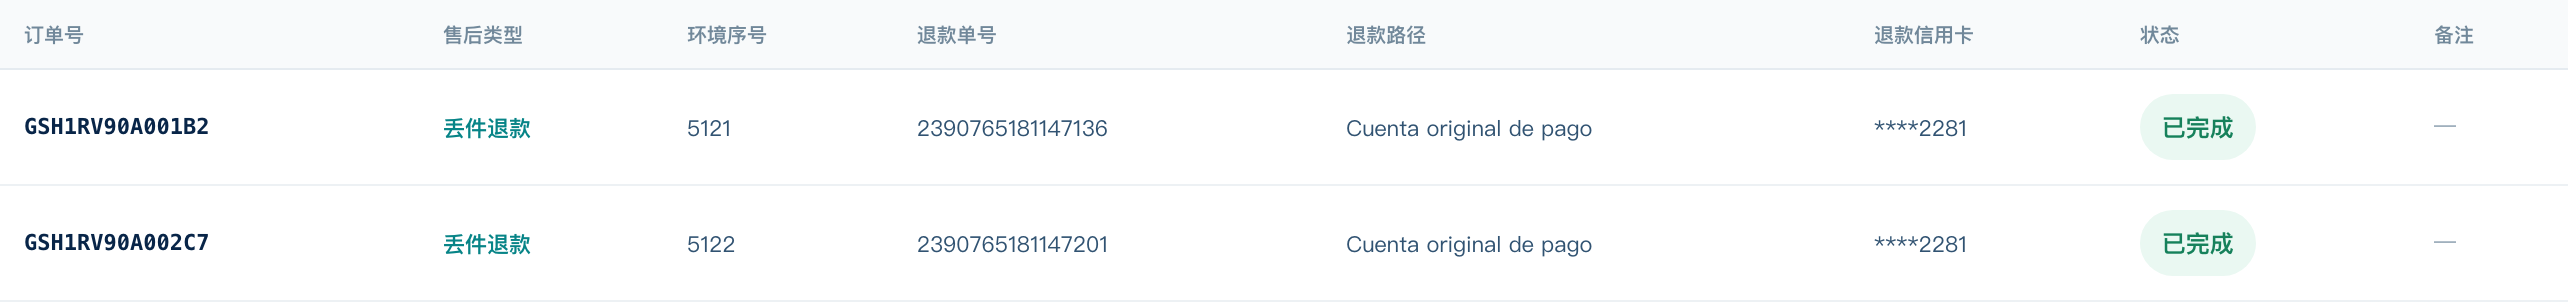
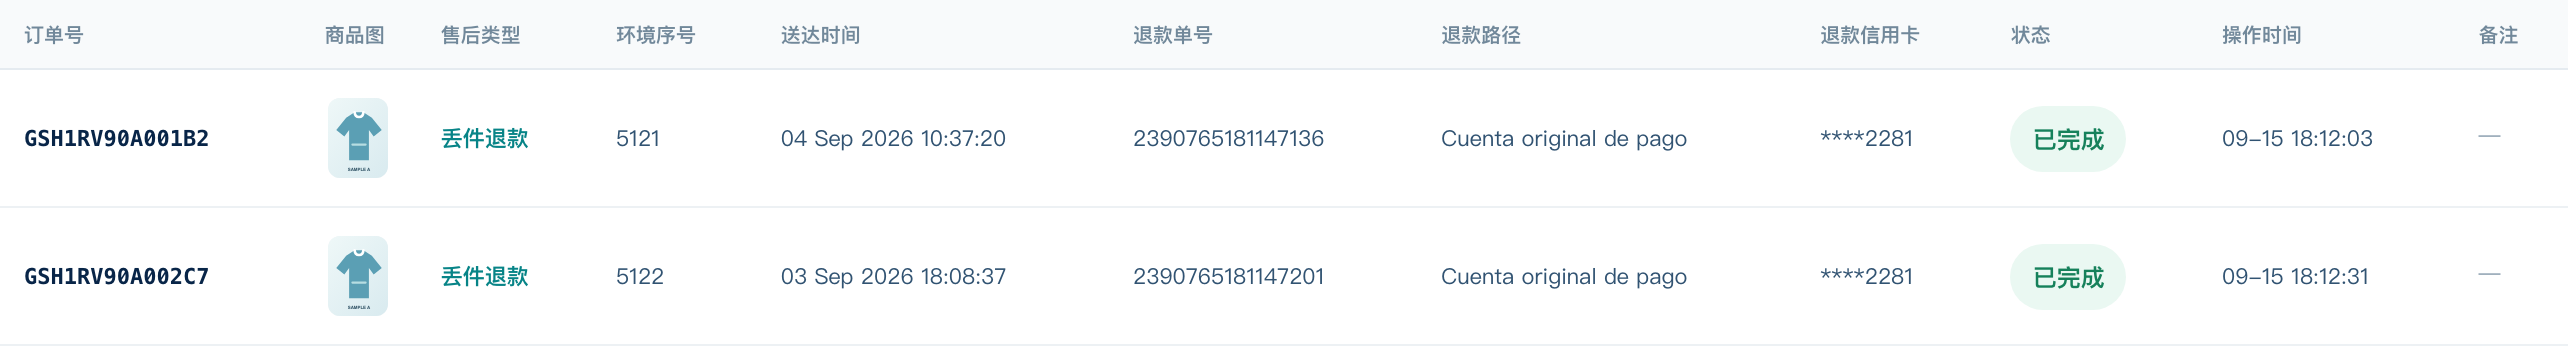
docs: 商品图列移到订单号之后；提交结果补送达时间、提交时间改名操作时间
按 Jeff 反馈调整三张表的列序与字段：
- ② 可申请清单：商品图从首列移到「订单号」右边（列序 环境序号|买家号环境|订单号|商品图|…）。
  移动时表头一度漏掉该列导致错位，已修正并加了「表头列数＝行单元格数」的对齐校验。
- ③ 提交结果：商品图同样移到订单号之后；新增「送达时间」；原「提交时间」改名为「操作时间」
  （同一语义，避免出现两个同义列）。
- ④ 退款跟踪：商品图从首列移到「订单号」右边。

送达时间不新增接口：扫描阶段已拿到，前端按订单号与扫描清单关联即可；
真机跨会话时把送达时间随提交条目一起落库。

实测三张表 headers 与行单元格数完全对齐（11/11、11/11、10/10），控制台零报错。

diff --git a/docs/prototypes/20260915-procurement-after-sale-v2-multitype.html b/docs/prototypes/20260915-procurement-after-sale-v2-multitype.html
@@ -15814,9 +15814,11 @@ initializeAuth();
       ],
       claimRows: [
         { order: 'GSH1RV90A001B2', serial: '5121', status: 'ok',
+          actedAt: '09-15 18:12:03',
           extra: { 退款单号: '2390765181147136', 退款路径: 'Cuenta original de pago',
                    退款信用卡: '****2281' } },
         { order: 'GSH1RV90A002C7', serial: '5122', status: 'ok',
+          actedAt: '09-15 18:12:31',
           extra: { 退款单号: '2390765181147201', 退款路径: 'Cuenta original de pago',
                    退款信用卡: '****2281' } },
       ],
@@ -15984,7 +15986,8 @@ initializeAuth();
     const t = typeOf(current);
     const head = document.querySelector('#asScanTable thead tr');
     head.innerHTML = '<th style="width:34px"><input type="checkbox" style="accent-color:var(--rhino-600)"></th>'
-      + '<th style="width:46px">商品图</th><th>环境序号</th><th>买家号环境</th><th>订单号</th><th>售后类型</th>'
+      + '<th>环境序号</th><th>买家号环境</th><th>订单号</th>'
+      + '<th style="width:46px">商品图</th><th>售后类型</th>'
       + t.scanCols.map(c => `<th${/金额/.test(c) ? ' class="num"' : ''}>${esc(c)}</th>`).join('')
       + '<th>状态</th>';
     const rows = t.rows;
@@ -15996,10 +15999,10 @@ initializeAuth();
         ? `<span class="pill ok">${esc(r.status)}</span>`
         : `<span class="pill ${r.status === '不可申请' || r.status === '不可取消' ? 'warn' : 'warn'}">${esc(r.status)}</span>`;
       return `<tr${checked ? ' class="as-picked"' : ''}><td>${box}</td>`
-        + thumbCell(t.thumb)
         + `<td class="sub-text">${esc(r.serial)}</td>`
         + `<td style="font-weight:700; color:var(--navy-950)">${esc(r.store)}</td>`
         + `<td class="as-order">${esc(r.order)}</td>`
+        + thumbCell(t.thumb)
         + `<td style="font-weight:700; color:#078487; white-space:nowrap">${esc(t.label)}</td>`
         + t.scanCols.map(c => `<td>${esc(r.extra[c] || '—')}</td>`).join('')
         + `<td>${pill}</td></tr>`;
@@ -16016,14 +16019,24 @@ initializeAuth();
   function renderClaim() {
     const t = typeOf(current);
     const head = document.querySelector('#asClaimTable thead tr');
-    head.innerHTML = '<th style="width:46px">商品图</th><th>订单号</th><th>售后类型</th><th>环境序号</th>'
-      + t.claimCols.map(c => `<th>${esc(c)}</th>`).join('') + '<th>状态</th><th>备注</th>';
-    document.getElementById('asClaimRows').innerHTML = t.claimRows.map(r =>
-      `<tr>${thumbCell(t.thumb)}<td class="as-order">${esc(r.order)}</td>`
+    head.innerHTML = '<th>订单号</th><th style="width:46px">商品图</th><th>售后类型</th><th>环境序号</th>'
+      + '<th>送达时间</th>'
+      + t.claimCols.map(c => `<th>${esc(c)}</th>`).join('')
+      + '<th>状态</th><th>操作时间</th><th>备注</th>';
+    document.getElementById('asClaimRows').innerHTML = t.claimRows.map(r => {
+      // 送达时间取自已扫描的清单（同一批数据，前端按订单号关联，不再要一次接口）
+      const scanned = t.rows.find(x => x.order === r.order) || {};
+      const delivered = (scanned.extra || {})['送达时间'] || '—';
+      return `<tr><td class="as-order">${esc(r.order)}</td>`
+      + thumbCell(t.thumb)
       + `<td style="font-weight:700; color:#078487">${esc(t.label)}</td>`
       + `<td class="sub-text">${esc(r.serial)}</td>`
+      + `<td class="sub-text">${esc(delivered)}</td>`
       + t.claimCols.map(c => `<td>${esc(r.extra[c] || '—')}</td>`).join('')
-      + '<td><span class="pill ok">已完成</span></td><td class="hint">—</td></tr>').join('');
+      + `<td><span class="pill ok">已完成</span></td>`
+      + `<td class="sub-text">${esc(r.actedAt || '—')}</td>`
+      + '<td class="hint">—</td></tr>';
+    }).join('');
   }
 
   function syncFooter() {
@@ -16095,9 +16108,9 @@ initializeAuth();
       const p = TRACK_PHASES[r.phase] || ['warn', r.phase];
       const bad = r.phase === 'rejected' || r.phase === 'overdue';
       return `<tr${bad ? ' class="tr-bad"' : (r.phase === 'refunded' ? '' : ' class="tr-run"')}>`
-        + thumbCell(typeOf('refund').thumb)
         + `<td class="as-order" style="font-size:12px">${esc(r.billId)}</td>`
         + `<td class="as-order">${esc(r.order)}</td>`
+        + thumbCell(typeOf('refund').thumb)
         + `<td class="sub-text">${esc(r.serial)}</td>`
         + `<td class="sub-text">${esc(r.card)}</td>`
         + `<td><span class="pill ${p[0]}">${esc(p[1])}</span></td>`
@@ -16139,7 +16152,7 @@ initializeAuth();
       <div style="padding: 0 19px;">
         <div class="table-scroll scroll-20">
           <table><thead><tr>
-            <th style="width:46px">商品图</th><th>退款单号</th><th>订单号</th><th>环境序号</th><th>退款信用卡</th>
+            <th>退款单号</th><th>订单号</th><th style="width:46px">商品图</th><th>环境序号</th><th>退款信用卡</th>
             <th>阶段</th><th>剩余倒计时</th><th>退款结果</th><th>最近检查</th><th>处置</th>
           </tr></thead><tbody id="asTrackRows"></tbody></table>
         </div>

diff --git a/docs/prototypes/build_procurement_after_sale_multitype_prototype.py b/docs/prototypes/build_procurement_after_sale_multitype_prototype.py
@@ -70,9 +70,11 @@ DESIGN_PATCH = r'''
       ],
       claimRows: [
         { order: 'GSH1RV90A001B2', serial: '5121', status: 'ok',
+          actedAt: '09-15 18:12:03',
           extra: { 退款单号: '2390765181147136', 退款路径: 'Cuenta original de pago',
                    退款信用卡: '****2281' } },
         { order: 'GSH1RV90A002C7', serial: '5122', status: 'ok',
+          actedAt: '09-15 18:12:31',
           extra: { 退款单号: '2390765181147201', 退款路径: 'Cuenta original de pago',
                    退款信用卡: '****2281' } },
       ],
@@ -240,7 +242,8 @@ DESIGN_PATCH = r'''
     const t = typeOf(current);
     const head = document.querySelector('#asScanTable thead tr');
     head.innerHTML = '<th style="width:34px"><input type="checkbox" style="accent-color:var(--rhino-600)"></th>'
-      + '<th style="width:46px">商品图</th><th>环境序号</th><th>买家号环境</th><th>订单号</th><th>售后类型</th>'
+      + '<th>环境序号</th><th>买家号环境</th><th>订单号</th>'
+      + '<th style="width:46px">商品图</th><th>售后类型</th>'
       + t.scanCols.map(c => `<th${/金额/.test(c) ? ' class="num"' : ''}>${esc(c)}</th>`).join('')
       + '<th>状态</th>';
     const rows = t.rows;
@@ -252,10 +255,10 @@ DESIGN_PATCH = r'''
         ? `<span class="pill ok">${esc(r.status)}</span>`
         : `<span class="pill ${r.status === '不可申请' || r.status === '不可取消' ? 'warn' : 'warn'}">${esc(r.status)}</span>`;
       return `<tr${checked ? ' class="as-picked"' : ''}><td>${box}</td>`
-        + thumbCell(t.thumb)
         + `<td class="sub-text">${esc(r.serial)}</td>`
         + `<td style="font-weight:700; color:var(--navy-950)">${esc(r.store)}</td>`
         + `<td class="as-order">${esc(r.order)}</td>`
+        + thumbCell(t.thumb)
         + `<td style="font-weight:700; color:#078487; white-space:nowrap">${esc(t.label)}</td>`
         + t.scanCols.map(c => `<td>${esc(r.extra[c] || '—')}</td>`).join('')
         + `<td>${pill}</td></tr>`;
@@ -272,14 +275,24 @@ DESIGN_PATCH = r'''
   function renderClaim() {
     const t = typeOf(current);
     const head = document.querySelector('#asClaimTable thead tr');
-    head.innerHTML = '<th style="width:46px">商品图</th><th>订单号</th><th>售后类型</th><th>环境序号</th>'
-      + t.claimCols.map(c => `<th>${esc(c)}</th>`).join('') + '<th>状态</th><th>备注</th>';
-    document.getElementById('asClaimRows').innerHTML = t.claimRows.map(r =>
-      `<tr>${thumbCell(t.thumb)}<td class="as-order">${esc(r.order)}</td>`
+    head.innerHTML = '<th>订单号</th><th style="width:46px">商品图</th><th>售后类型</th><th>环境序号</th>'
+      + '<th>送达时间</th>'
+      + t.claimCols.map(c => `<th>${esc(c)}</th>`).join('')
+      + '<th>状态</th><th>操作时间</th><th>备注</th>';
+    document.getElementById('asClaimRows').innerHTML = t.claimRows.map(r => {
+      // 送达时间取自已扫描的清单（同一批数据，前端按订单号关联，不再要一次接口）
+      const scanned = t.rows.find(x => x.order === r.order) || {};
+      const delivered = (scanned.extra || {})['送达时间'] || '—';
+      return `<tr><td class="as-order">${esc(r.order)}</td>`
+      + thumbCell(t.thumb)
       + `<td style="font-weight:700; color:#078487">${esc(t.label)}</td>`
       + `<td class="sub-text">${esc(r.serial)}</td>`
+      + `<td class="sub-text">${esc(delivered)}</td>`
       + t.claimCols.map(c => `<td>${esc(r.extra[c] || '—')}</td>`).join('')
-      + '<td><span class="pill ok">已完成</span></td><td class="hint">—</td></tr>').join('');
+      + `<td><span class="pill ok">已完成</span></td>`
+      + `<td class="sub-text">${esc(r.actedAt || '—')}</td>`
+      + '<td class="hint">—</td></tr>';
+    }).join('');
   }
 
   function syncFooter() {
@@ -351,9 +364,9 @@ DESIGN_PATCH = r'''
       const p = TRACK_PHASES[r.phase] || ['warn', r.phase];
       const bad = r.phase === 'rejected' || r.phase === 'overdue';
       return `<tr${bad ? ' class="tr-bad"' : (r.phase === 'refunded' ? '' : ' class="tr-run"')}>`
-        + thumbCell(typeOf('refund').thumb)
         + `<td class="as-order" style="font-size:12px">${esc(r.billId)}</td>`
         + `<td class="as-order">${esc(r.order)}</td>`
+        + thumbCell(typeOf('refund').thumb)
         + `<td class="sub-text">${esc(r.serial)}</td>`
         + `<td class="sub-text">${esc(r.card)}</td>`
         + `<td><span class="pill ${p[0]}">${esc(p[1])}</span></td>`
@@ -395,7 +408,7 @@ DESIGN_PATCH = r'''
       <div style="padding: 0 19px;">
         <div class="table-scroll scroll-20">
           <table><thead><tr>
-            <th style="width:46px">商品图</th><th>退款单号</th><th>订单号</th><th>环境序号</th><th>退款信用卡</th>
+            <th>退款单号</th><th>订单号</th><th style="width:46px">商品图</th><th>环境序号</th><th>退款信用卡</th>
             <th>阶段</th><th>剩余倒计时</th><th>退款结果</th><th>最近检查</th><th>处置</th>
           </tr></thead><tbody id="asTrackRows"></tbody></table>
         </div>

diff --git a/docs/prototypes/20260915-procurement-after-sale-v2-multitype.md b/docs/prototypes/20260915-procurement-after-sale-v2-multitype.md
@@ -36,7 +36,7 @@ python3 -m http.server 8899 --directory docs/prototypes
 
 样稿里可直接体验到的差异：
 
-- **丢件退款**：① 三段式原样；提交按钮「提交售后」；提交前无二次确认；③ 结果表新增「**退款信用卡**」列（原路退回落到哪张卡，如 `****2281`）。
+- **丢件退款**：① 三段式原样；提交按钮「提交售后」；提交前无二次确认；③ 结果表新增「**退款信用卡**」列（原路退回落到哪张卡，如 `****2281`）与「**送达时间**」列，原「提交时间」改名为「**操作时间**」。
 - **催促发货**：清单多「已催次数 / 下次可催」两列；按钮变「批量催促发货」；「冷却中」的行不可勾选。
 - **取消订单**：清单多「可否取消」列；**提交前弹出二次确认**——列出将取消的单、合计金额、不可逆提示，并要求输入「取消订单」四个字才解锁确认按钮。
 
@@ -112,7 +112,7 @@ python3 -m http.server 8899 --directory docs/prototypes
 
 ## 商品图列（本次新增，三张表都有）
 
-② 可申请清单、③ 提交结果、④ 退款跟踪 三张表都加「商品图」列，放在**勾选框之后的第一列**，尺寸 34×44（密集表格档，不撑高行）。
+② 可申请清单、③ 提交结果、④ 退款跟踪 三张表都加「商品图」列，放在**订单号列的右边**，尺寸 34×44（密集表格档，不撑高行）。
 
 ![商品图列](./20260915-procurement-after-sale-v2-thumbs.png)
 
@@ -134,3 +134,15 @@ python3 -m http.server 8899 --directory docs/prototypes
 因此**不需要在执行器侧下载图片再回传**（那会让每行几 KB～几十 KB 的 base64 走一遍云端，行数一多就把进度快照撑爆）。浏览器直连 CDN 是更省的做法；真要离线或断网场景，再退回「执行器转存 + 云端附件」那条路。
 
 样稿里用的是仓内本地的 `preview-product-*.svg` 占位图——既让原型离线可用，也不把真实商品图地址写进版本库；生产环境走 CDN 真图。
+
+### 三张表的最终列序
+
+```
+② 可申请清单  ☑ | 环境序号 | 买家号环境 | 订单号 | 商品图 | 售后类型 | 送达时间 | 金额 | 可退包裹 | 物流号 | 状态
+③ 提交结果   订单号 | 商品图 | 售后类型 | 环境序号 | 送达时间 | 退款单号 | 退款路径 | 退款信用卡 | 状态 | 操作时间 | 备注
+④ 退款跟踪   退款单号 | 订单号 | 商品图 | 环境序号 | 退款信用卡 | 阶段 | 剩余倒计时 | 退款结果 | 最近检查 | 处置
+```
+
+「操作时间」的来由：③ 原本已有「提交时间」，语义就是这次售后动作发生的时间，因此直接沿用该字段并改名为「操作时间」，不再另起一列——否则会出现两个同义列。
+
+③ 的「送达时间」不需要新接口：扫描阶段（`pre_info` 之外，线索来自订单卡片）已经拿到送达时间，前端按订单号与扫描清单关联即可，同一次会话内数据就在手上。真机实现时若跨会话，则把送达时间随提交条目一起落库。
